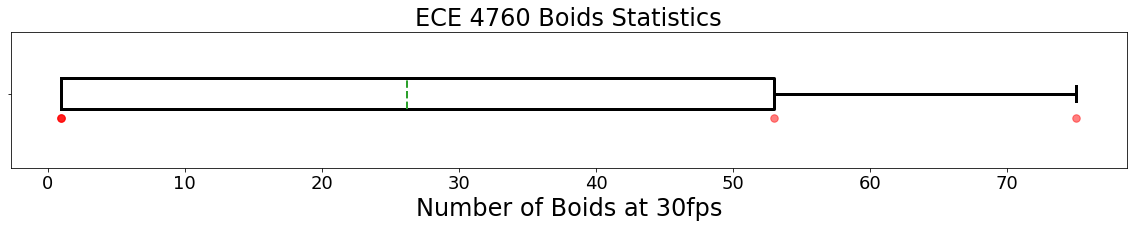
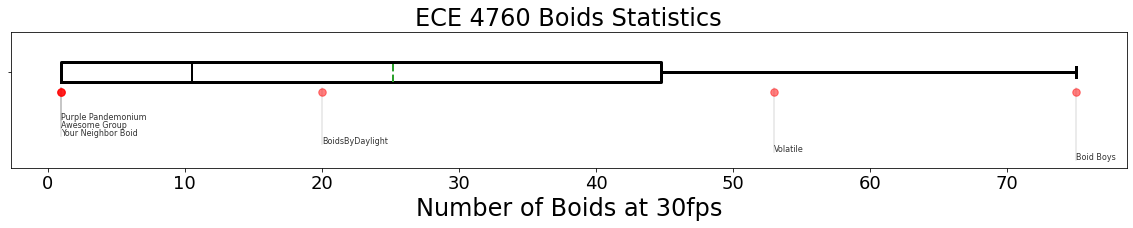
updated boid numbers

diff --git a/Boids/Boids_Numbers.html b/Boids/Boids_Numbers.html
@@ -13112,10 +13112,29 @@ div#notebook {
 </div>
 <div class="cell border-box-sizing code_cell rendered">
 <div class="input">
-<div class="prompt input_prompt">In&nbsp;[7]:</div>
+<div class="prompt input_prompt">In&nbsp;[41]:</div>
 <div class="inner_cell">
     <div class="input_area">
-<div class=" highlight hl-ipython3"><pre><span></span><span class="n">boids_2021</span> <span class="o">=</span> <span class="n">numpy</span><span class="o">.</span><span class="n">array</span><span class="p">([</span><span class="mi">75</span><span class="p">,</span> <span class="mi">1</span><span class="p">,</span> <span class="mi">1</span><span class="p">,</span> <span class="mi">1</span><span class="p">,</span> <span class="mi">53</span><span class="p">])</span>
+<div class=" highlight hl-ipython3"><pre><span></span><span class="n">boids</span> <span class="o">=</span> <span class="p">{</span><span class="s1">&#39;Boid Boys&#39;</span><span class="p">:</span> <span class="mi">75</span><span class="p">,</span>
+         <span class="s1">&#39;Purple Pandemonium&#39;</span><span class="p">:</span> <span class="mi">1</span><span class="p">,</span>
+         <span class="s1">&#39;Awesome Group&#39;</span><span class="p">:</span> <span class="mi">1</span><span class="p">,</span>
+         <span class="s1">&#39;Your Neighbor Boid&#39;</span><span class="p">:</span> <span class="mi">1</span><span class="p">,</span>
+         <span class="s1">&#39;Volatile&#39;</span><span class="p">:</span> <span class="mi">53</span><span class="p">,</span>
+         <span class="s1">&#39;BoidsByDaylight&#39;</span><span class="p">:</span> <span class="mi">20</span><span class="p">}</span>
+<span class="n">boids</span> <span class="o">=</span> <span class="nb">dict</span><span class="p">(</span><span class="nb">sorted</span><span class="p">(</span><span class="n">boids</span><span class="o">.</span><span class="n">items</span><span class="p">(),</span> <span class="n">key</span><span class="o">=</span><span class="k">lambda</span> <span class="n">x</span><span class="p">:</span> <span class="n">x</span><span class="p">[</span><span class="mi">1</span><span class="p">],</span> <span class="n">reverse</span><span class="o">=</span><span class="kc">False</span><span class="p">))</span>
+</pre></div>
+
+    </div>
+</div>
+</div>
+
+</div>
+<div class="cell border-box-sizing code_cell rendered">
+<div class="input">
+<div class="prompt input_prompt">In&nbsp;[37]:</div>
+<div class="inner_cell">
+    <div class="input_area">
+<div class=" highlight hl-ipython3"><pre><span></span><span class="n">boids_2021</span> <span class="o">=</span> <span class="n">numpy</span><span class="o">.</span><span class="n">array</span><span class="p">([</span><span class="mi">75</span><span class="p">,</span> <span class="mi">1</span><span class="p">,</span> <span class="mi">1</span><span class="p">,</span> <span class="mi">1</span><span class="p">,</span> <span class="mi">53</span><span class="p">,</span> <span class="mi">20</span><span class="p">])</span>
 </pre></div>
 
     </div>
@@ -13132,11 +13151,11 @@ div#notebook {
 </div>
 <div class="cell border-box-sizing code_cell rendered">
 <div class="input">
-<div class="prompt input_prompt">In&nbsp;[8]:</div>
+<div class="prompt input_prompt">In&nbsp;[55]:</div>
 <div class="inner_cell">
     <div class="input_area">
 <div class=" highlight hl-ipython3"><pre><span></span><span class="n">plt</span><span class="o">.</span><span class="n">rcParams</span><span class="p">[</span><span class="s1">&#39;figure.figsize&#39;</span><span class="p">]</span> <span class="o">=</span> <span class="p">[</span><span class="mi">20</span><span class="p">,</span> <span class="mf">2.5</span><span class="p">]</span>
-<span class="n">plt</span><span class="o">.</span><span class="n">boxplot</span><span class="p">(</span><span class="n">boids_2021</span><span class="p">,</span> <span class="n">meanline</span><span class="o">=</span><span class="kc">True</span><span class="p">,</span> <span class="n">showmeans</span><span class="o">=</span><span class="kc">True</span><span class="p">,</span> <span class="n">whis</span><span class="o">=</span><span class="mf">1.</span><span class="p">,</span> <span class="n">vert</span><span class="o">=</span><span class="kc">False</span><span class="p">,</span> <span class="n">widths</span><span class="o">=</span><span class="mf">2.5</span><span class="p">,</span>
+<span class="n">plt</span><span class="o">.</span><span class="n">boxplot</span><span class="p">(</span><span class="nb">list</span><span class="p">(</span><span class="n">boids</span><span class="o">.</span><span class="n">values</span><span class="p">()),</span> <span class="n">meanline</span><span class="o">=</span><span class="kc">True</span><span class="p">,</span> <span class="n">showmeans</span><span class="o">=</span><span class="kc">True</span><span class="p">,</span> <span class="n">whis</span><span class="o">=</span><span class="mf">1.</span><span class="p">,</span> <span class="n">vert</span><span class="o">=</span><span class="kc">False</span><span class="p">,</span> <span class="n">widths</span><span class="o">=</span><span class="mf">2.5</span><span class="p">,</span>
             <span class="n">boxprops</span><span class="o">=</span><span class="p">{</span><span class="s1">&#39;linewidth&#39;</span><span class="p">:</span> <span class="mi">3</span><span class="p">},</span> <span class="n">whiskerprops</span><span class="o">=</span><span class="p">{</span><span class="s1">&#39;color&#39;</span><span class="p">:</span><span class="s1">&#39;black&#39;</span><span class="p">,</span> <span class="s1">&#39;linewidth&#39;</span><span class="p">:</span> <span class="mi">3</span><span class="p">},</span>
             <span class="n">capprops</span><span class="o">=</span><span class="p">{</span><span class="s1">&#39;linewidth&#39;</span><span class="p">:</span> <span class="mi">3</span><span class="p">},</span> <span class="n">medianprops</span><span class="o">=</span><span class="p">{</span><span class="s1">&#39;color&#39;</span><span class="p">:</span><span class="s1">&#39;black&#39;</span><span class="p">,</span> <span class="s1">&#39;linewidth&#39;</span><span class="p">:</span> <span class="mi">2</span><span class="p">},</span>
             <span class="n">meanprops</span><span class="o">=</span><span class="p">{</span><span class="s1">&#39;linewidth&#39;</span><span class="p">:</span> <span class="mi">2</span><span class="p">},</span> <span class="n">flierprops</span><span class="o">=</span><span class="p">{</span><span class="s1">&#39;markerfacecolor&#39;</span><span class="p">:</span><span class="s1">&#39;black&#39;</span><span class="p">,</span>
@@ -13149,9 +13168,15 @@ div#notebook {
 
 
 <span class="c1"># X/y limits</span>
-<span class="n">plt</span><span class="o">.</span><span class="n">ylim</span><span class="p">([</span><span class="o">-</span><span class="mi">5</span><span class="p">,</span> <span class="mi">6</span><span class="p">])</span>
+<span class="n">plt</span><span class="o">.</span><span class="n">ylim</span><span class="p">([</span><span class="o">-</span><span class="p">(</span><span class="mi">5</span><span class="o">+</span><span class="nb">len</span><span class="p">(</span><span class="n">boids</span><span class="p">)),</span> <span class="mi">6</span><span class="p">])</span>
 
-<span class="n">plt</span><span class="o">.</span><span class="n">plot</span><span class="p">(</span><span class="n">boids_2021</span><span class="p">,</span> <span class="o">-</span><span class="mf">1.</span><span class="o">*</span><span class="n">numpy</span><span class="o">.</span><span class="n">ones</span><span class="p">(</span><span class="nb">len</span><span class="p">(</span><span class="n">boids_2021</span><span class="p">)),</span> <span class="s1">&#39;r.&#39;</span><span class="p">,</span> <span class="n">alpha</span><span class="o">=</span><span class="mf">0.5</span><span class="p">,</span> <span class="n">markersize</span><span class="o">=</span><span class="mi">15</span><span class="p">)</span>
+<span class="n">counter</span> <span class="o">=</span> <span class="mi">0</span> 
+<span class="k">for</span> <span class="n">i</span> <span class="ow">in</span> <span class="nb">list</span><span class="p">(</span><span class="n">boids</span><span class="o">.</span><span class="n">keys</span><span class="p">()):</span>
+    <span class="n">plt</span><span class="o">.</span><span class="n">annotate</span><span class="p">(</span><span class="n">i</span><span class="p">,</span> <span class="n">xy</span><span class="o">=</span><span class="p">(</span><span class="n">boids</span><span class="p">[</span><span class="n">i</span><span class="p">],</span> <span class="o">-</span><span class="p">(</span><span class="mi">5</span><span class="o">+</span><span class="n">counter</span><span class="p">)),</span> <span class="n">xytext</span><span class="o">=</span><span class="p">(</span><span class="n">boids</span><span class="p">[</span><span class="n">i</span><span class="p">],</span> <span class="o">-</span><span class="p">(</span><span class="mi">5</span><span class="o">+</span><span class="n">counter</span><span class="p">)),</span> <span class="n">fontsize</span><span class="o">=</span><span class="mi">8</span><span class="p">,</span> <span class="n">alpha</span><span class="o">=.</span><span class="mi">8</span><span class="p">)</span>
+    <span class="n">plt</span><span class="o">.</span><span class="n">plot</span><span class="p">(</span><span class="n">boids</span><span class="p">[</span><span class="n">i</span><span class="p">]</span><span class="o">*</span><span class="n">numpy</span><span class="o">.</span><span class="n">ones</span><span class="p">(</span><span class="mi">20</span><span class="p">),</span> <span class="n">numpy</span><span class="o">.</span><span class="n">linspace</span><span class="p">(</span><span class="o">-</span><span class="p">(</span><span class="mi">5</span><span class="o">+</span><span class="n">counter</span><span class="p">),</span><span class="o">-</span><span class="mi">1</span><span class="p">,</span><span class="mi">20</span><span class="p">),</span> <span class="s1">&#39;black&#39;</span><span class="p">,</span> <span class="n">alpha</span><span class="o">=</span><span class="mf">0.1</span><span class="p">)</span>
+    <span class="n">counter</span> <span class="o">+=</span> <span class="mi">1</span>
+
+<span class="n">plt</span><span class="o">.</span><span class="n">plot</span><span class="p">(</span><span class="n">boids_2021</span><span class="p">,</span> <span class="o">-</span><span class="mf">1.5</span><span class="o">*</span><span class="n">numpy</span><span class="o">.</span><span class="n">ones</span><span class="p">(</span><span class="nb">len</span><span class="p">(</span><span class="n">boids_2021</span><span class="p">)),</span> <span class="s1">&#39;r.&#39;</span><span class="p">,</span> <span class="n">alpha</span><span class="o">=</span><span class="mf">0.5</span><span class="p">,</span> <span class="n">markersize</span><span class="o">=</span><span class="mi">15</span><span class="p">)</span>
 
 <span class="n">plt</span><span class="o">.</span><span class="n">savefig</span><span class="p">(</span><span class="s1">&#39;Boid.png&#39;</span><span class="p">,</span> <span class="n">bbox_inches</span><span class="o">=</span><span class="s1">&#39;tight&#39;</span><span class="p">)</span>
 <span class="n">plt</span><span class="o">.</span><span class="n">show</span><span class="p">()</span>
@@ -13173,26 +13198,13 @@ div#notebook {
 
 
 <div class="output_png output_subarea ">
[2 lines of base64/hex data omitted]
 "
 >
 </div>
 
 </div>
 
-</div>
-</div>
-
-</div>
-<div class="cell border-box-sizing code_cell rendered">
-<div class="input">
-<div class="prompt input_prompt">In&nbsp;[&nbsp;]:</div>
-<div class="inner_cell">
-    <div class="input_area">
-<div class=" highlight hl-ipython3"><pre><span></span> 
-</pre></div>
-
-    </div>
 </div>
 </div>
 
